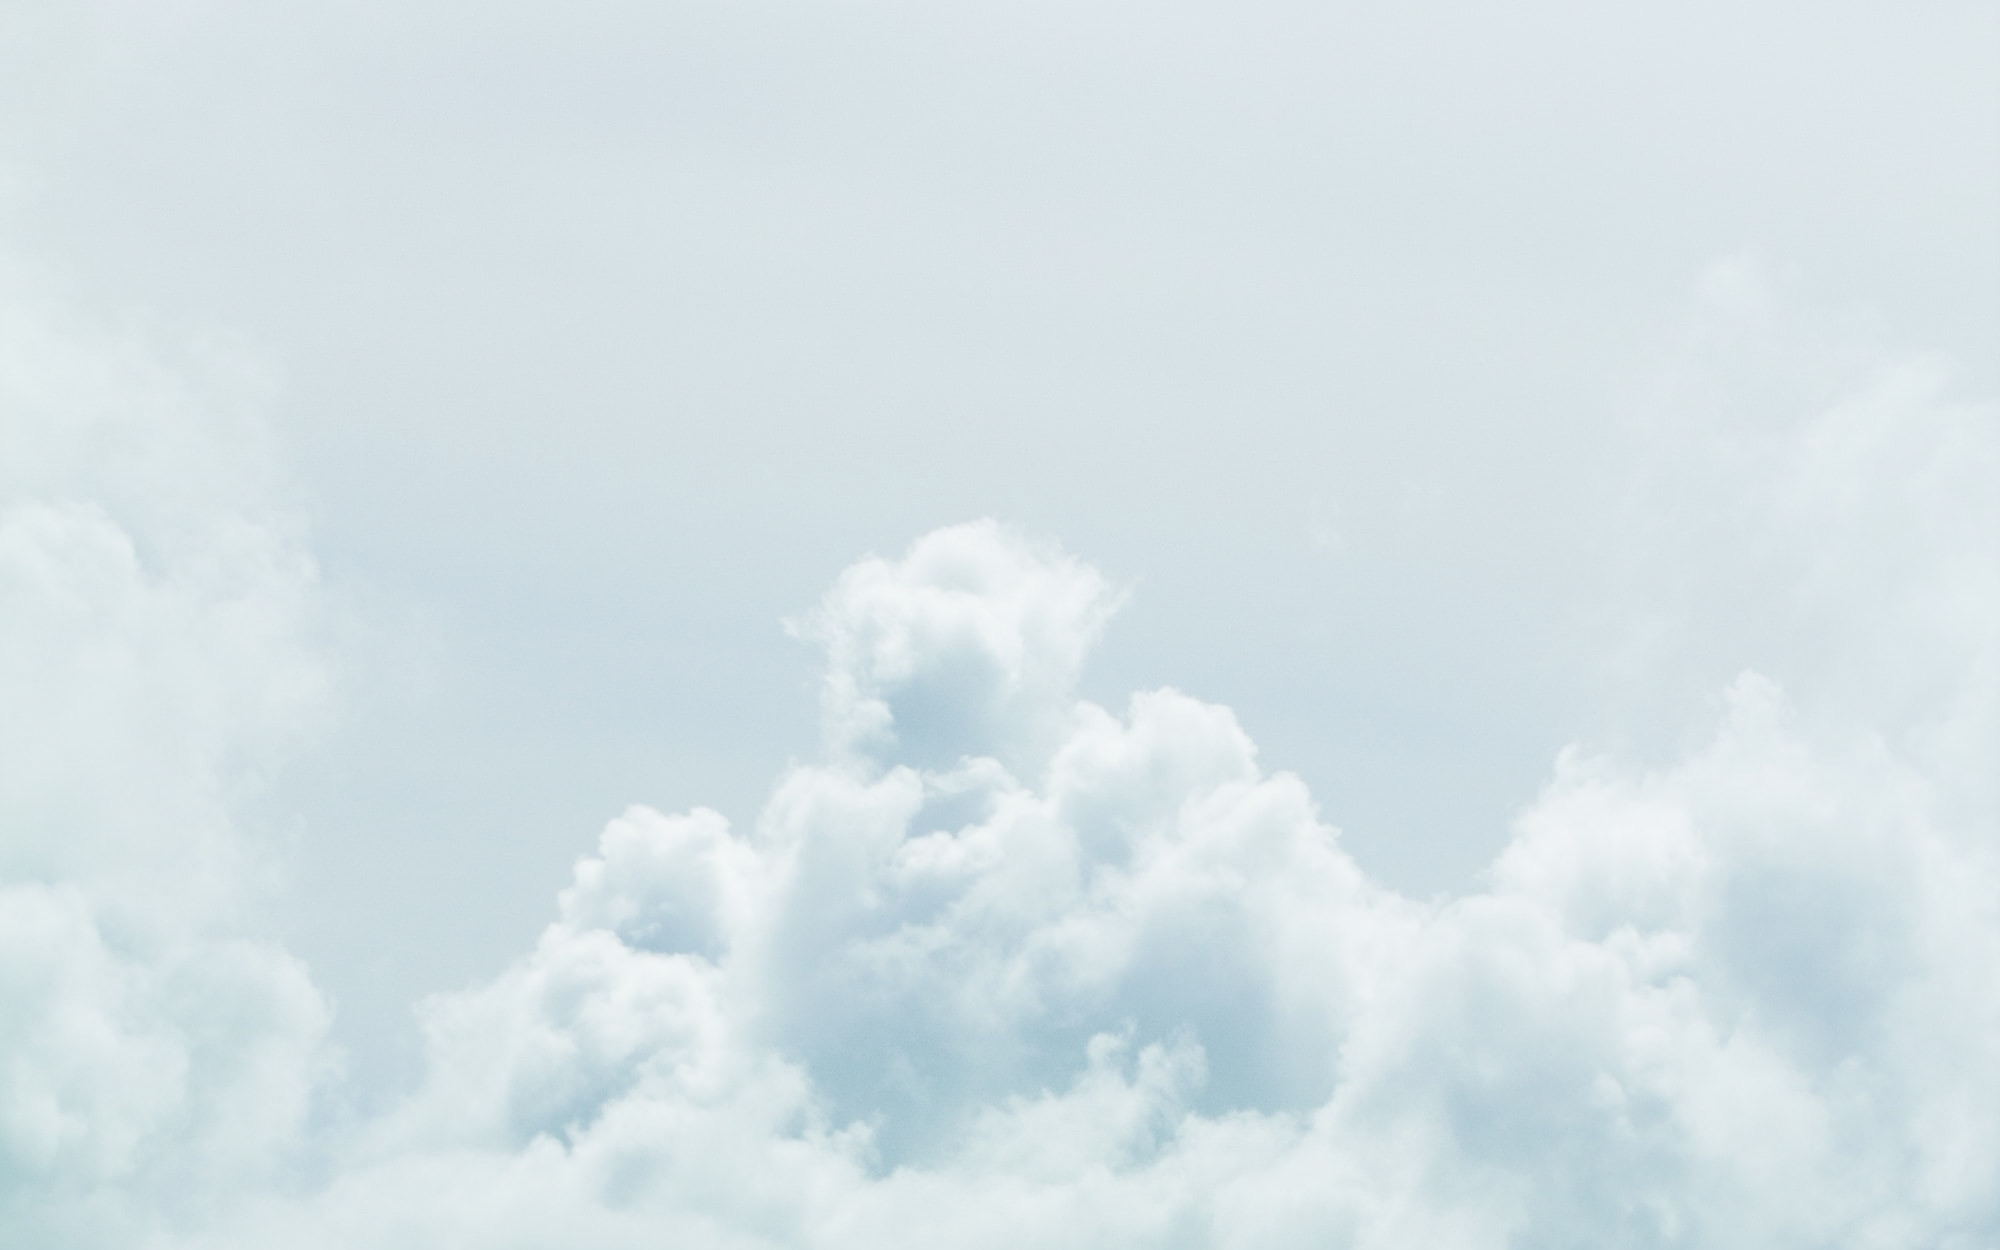
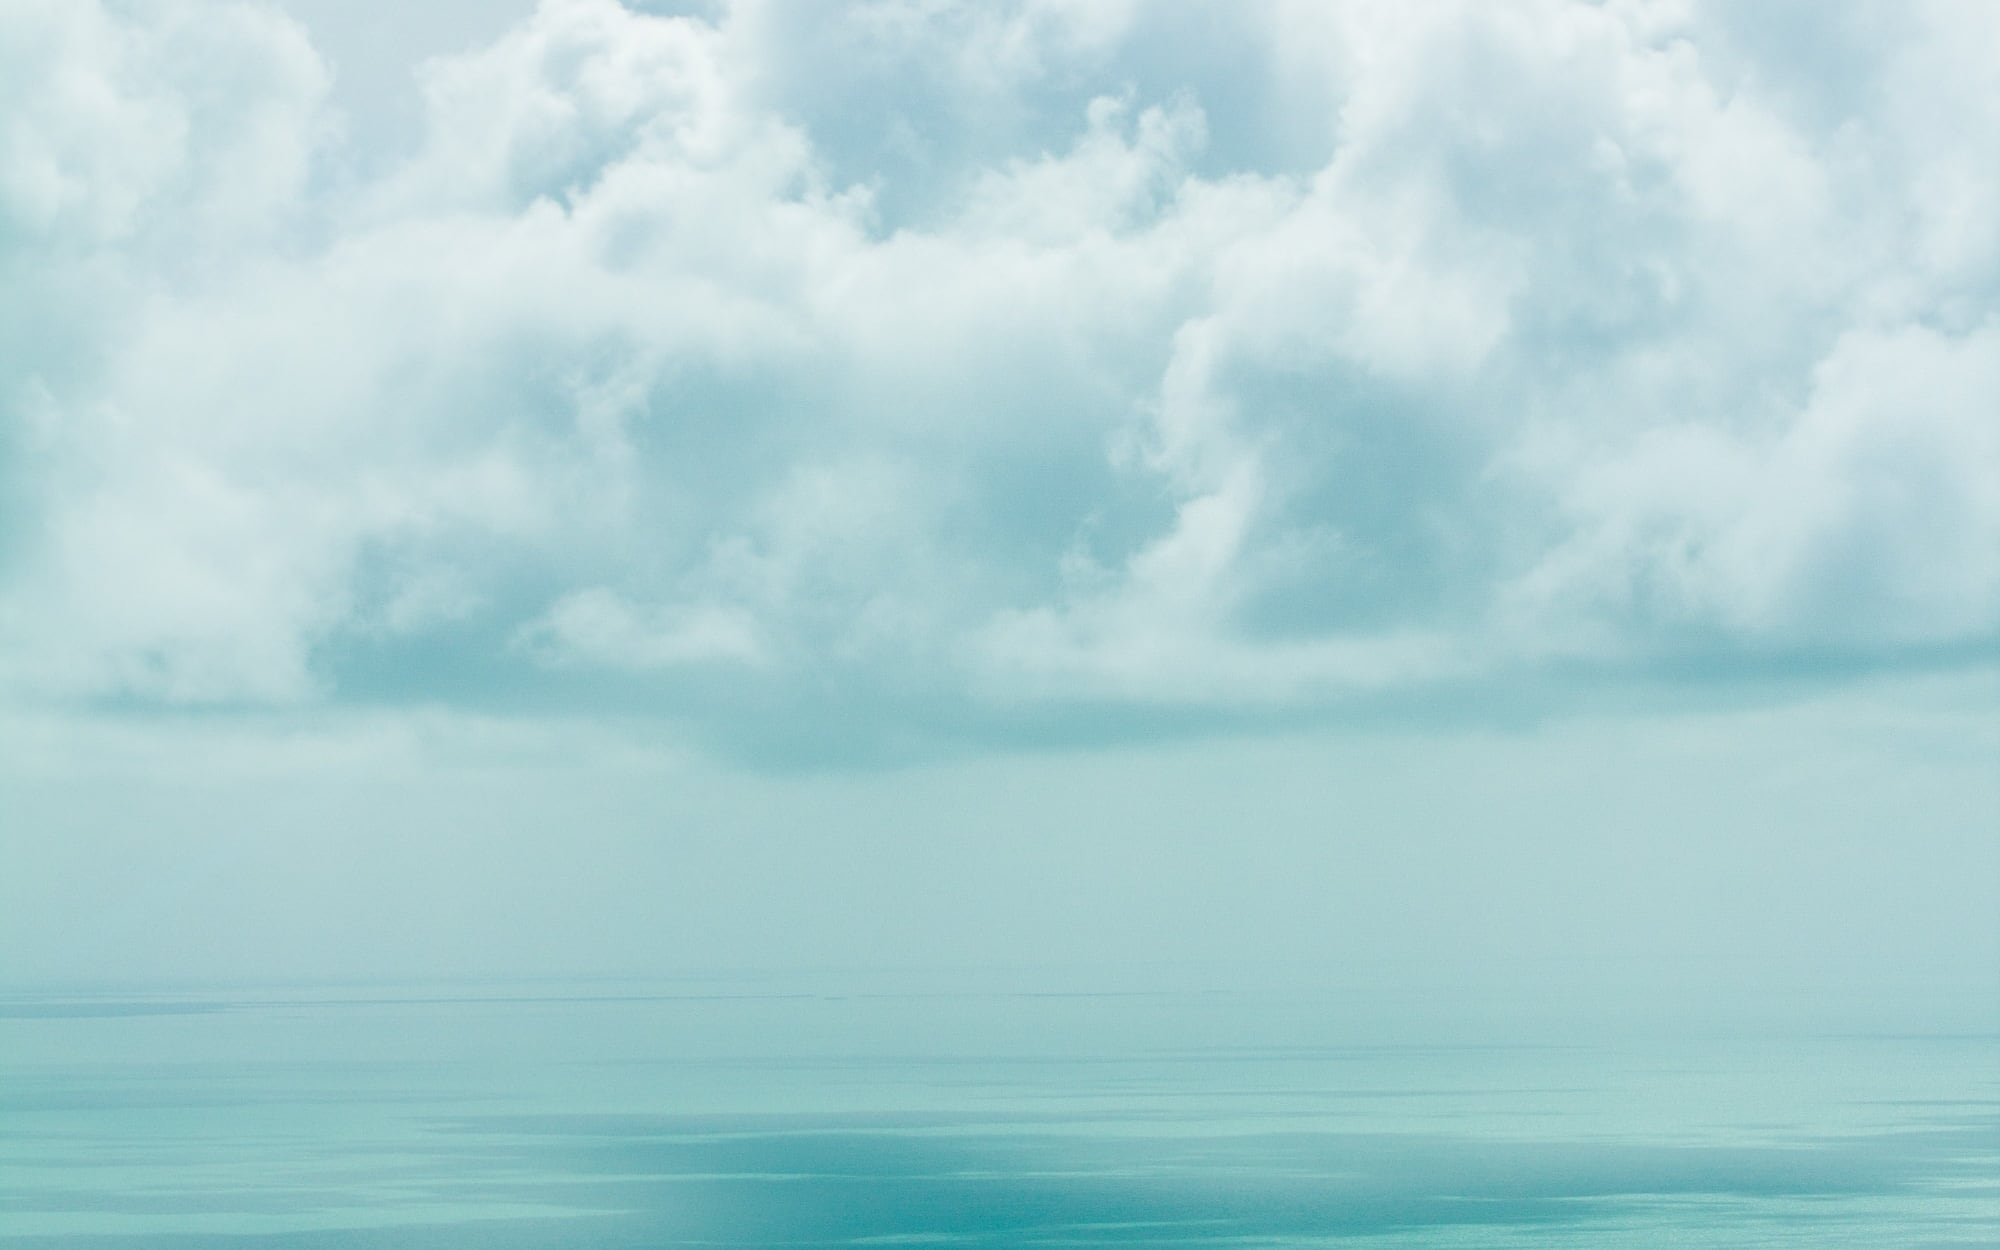
[bg1.jpg, dev, index] changed to match blog

diff --git a/dev.php b/dev.php
@@ -20,7 +20,7 @@
             background-color: #1d9f97;
         }
         .bg-div {
-            background-position: center bottom;
+            background-position: center center;
             background-image: url(/assets/bg1.jpg<?php echo '?t='. filemtime($_SERVER['DOCUMENT_ROOT'] . '/assets/bg1.jpg')?>);
         }
     </style>

diff --git a/index.php b/index.php
@@ -20,7 +20,7 @@
             background-color: #1d9f97;
         }
         .bg-div {
-            background-position: center bottom;
+            background-position: center center;
             background-image: url(/assets/bg1.jpg<?php echo '?t='. filemtime($_SERVER['DOCUMENT_ROOT'] . '/assets/bg1.jpg')?>);
         }
     </style>
